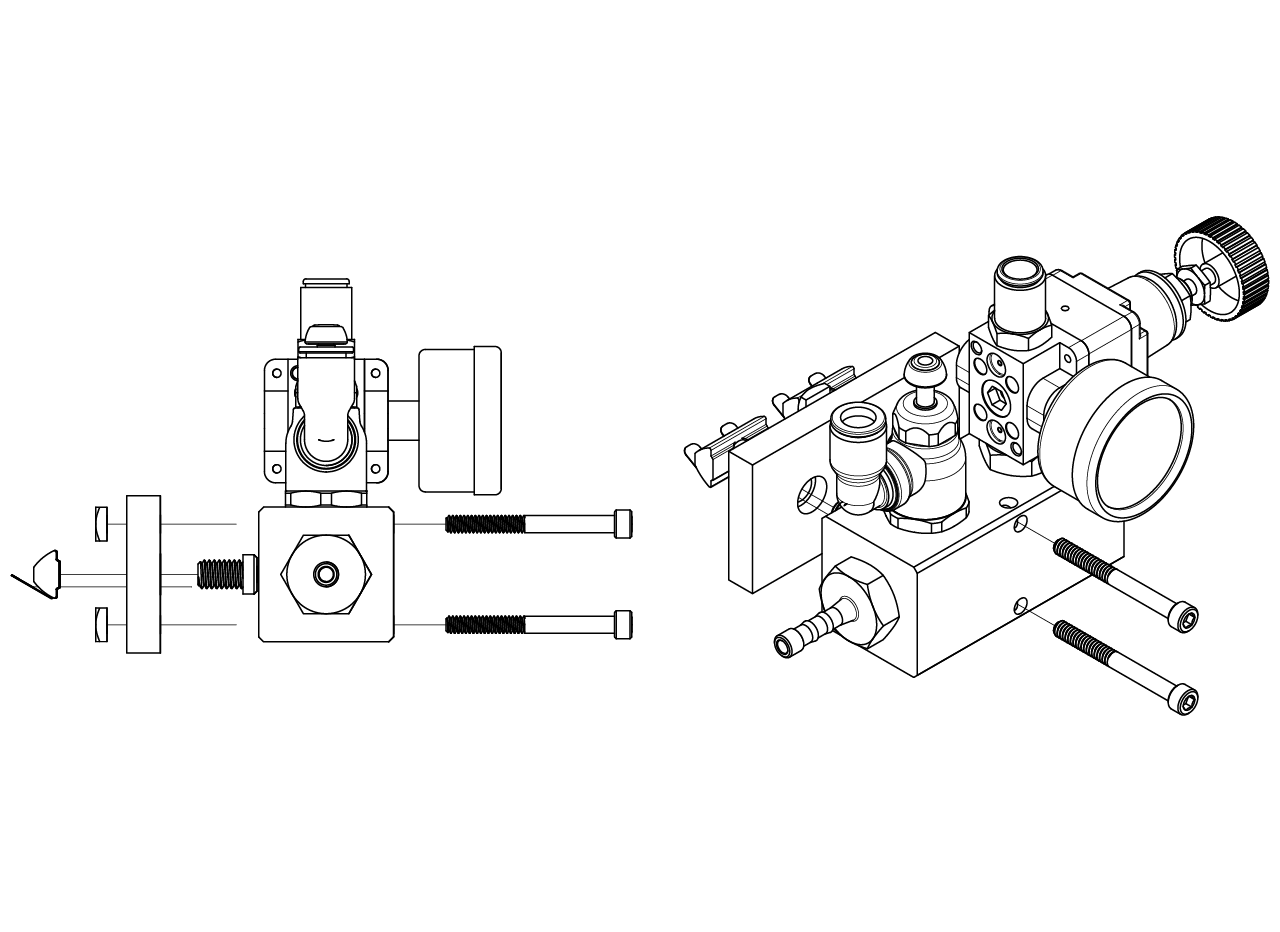
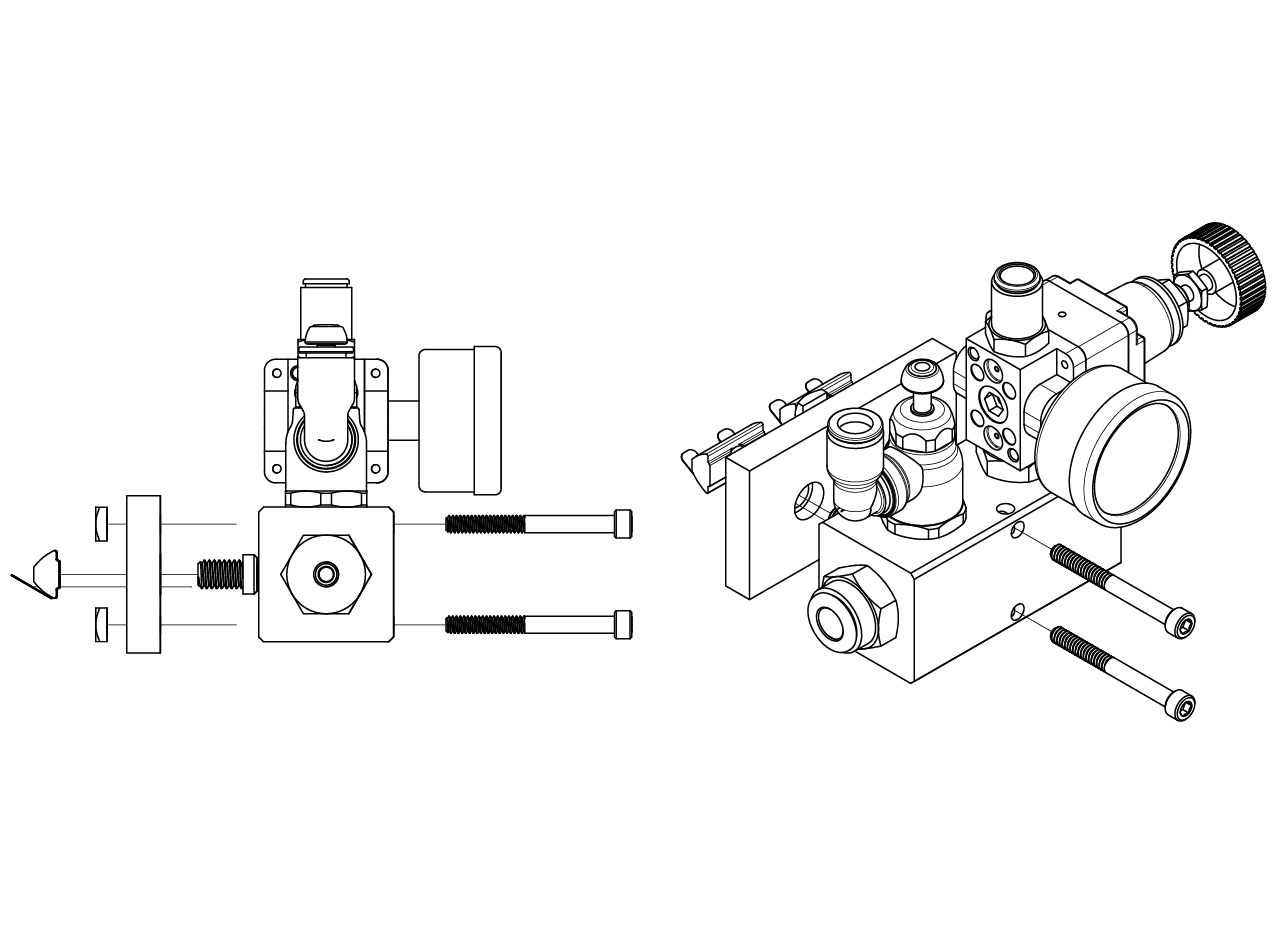
Update air supply module - replace main air connector

Changed region(s): [[0.5312, 0.2178, 1.0, 0.7468], [0.875, 0.7157, 0.9375, 0.7779]]

diff --git a/src/building/air-supply.md b/src/building/air-supply.md
@@ -14,7 +14,7 @@ The air supply module consist of a manifold that is connected to the main lab ai
 
 ## Manifold assembly
 
-If the air puffs are going to be used, we recommend to add the pressure gauge during this step, otherwise place a plug instead of the gauge on the second outlet of the manifold. First, install a 1/2 NPT plug and a 1/4" ID x 1/2 NPT male barbed hose fitting in the manifold, then install the pressure gauge or another plug if air puffs are not going to be installed. Finally, install a 3/8 NPT male inlet x 3/8" push-to-connect female outlet air flow control valve into the first outlet of the manifold.
+If the air puffs are going to be used, we recommend to add the pressure gauge during this step, otherwise place a plug instead of the gauge on the second outlet of the manifold. First, install a 1/2 NPT plug and a Push-to-Connect tube fitting for air straight sdapter, for 3/8" Tube OD x 1/2 NPT Male in the manifold. Then install the pressure gauge or another plug if air puffs are not going to be installed. Finally, install a 3/8 NPT male inlet x 3/8" push-to-connect female outlet air flow control valve into the first outlet of the manifold.
 
 <figure>
   <img src='./assets/images/air-supply/air-supply-assembly-1.png'>
